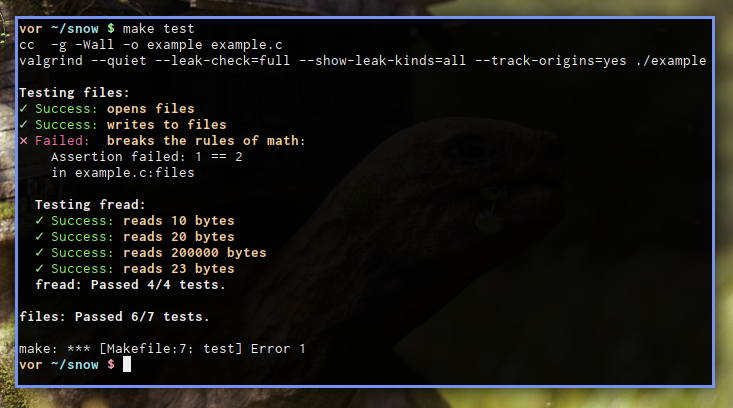
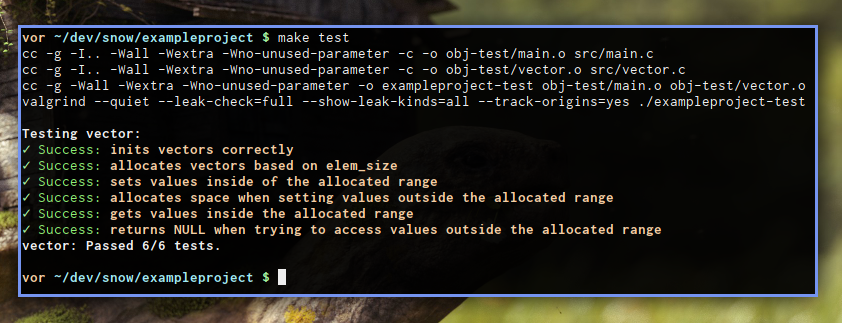
replaced example.c with an example project

diff --git a/exampleproject/src/vector.c b/exampleproject/src/vector.c
@@ -1,0 +1,110 @@
+#include "vector.h"
+#include <string.h>
+
+void vector_init(vector *vec, size_t elem_size)
+{
+	vec->size = 0;
+	vec->count = 0;
+	vec->elem_size = elem_size;
+	vec->elems = NULL;
+}
+
+void vector_free(vector *vec)
+{
+	free(vec->elems);
+}
+
+void vector_alloc(vector *vec, size_t count)
+{
+	if (vec->size >= count)
+		return;
+
+	if (vec->size == 0)
+		vec->size = 16;
+	while (vec->size < count)
+		vec->size *= 2;
+
+	vec->elems = realloc(vec->elems, vec->elem_size * vec->size);
+}
+
+void vector_set(vector *vec, size_t idx, void *elem)
+{
+	if (idx + 1 > vec->count)
+	{
+		vec->count = idx + 1;
+		vector_alloc(vec, vec->count);
+	}
+
+	memcpy(vec->elems + (vec->elem_size * idx), elem, vec->elem_size);
+}
+
+void *vector_get(vector *vec, size_t idx)
+{
+	if (vec->count <= idx)
+		return NULL;
+
+	return vec->elems + (vec->elem_size * idx);
+}
+
+#include <snow/snow.h>
+
+#define setup(name, size) \
+	vector name; \
+	vector_init(&name, size); \
+	defer(vector_free(&name))
+
+describe(vector, {
+	it("inits vectors correctly", {
+		setup(vec, 53);
+
+		asserteq(vec.size, 0);
+		asserteq(vec.count, 0);
+		asserteq(vec.elem_size, 53);
+		asserteq(vec.size, 0);
+	});
+
+	it("allocates vectors based on elem_size", {
+		setup(vec, sizeof(int));
+
+		vector_alloc(&vec, 10);
+		asserteq(vec.elem_size, sizeof(int));
+		asserteq(vec.count, 0);
+		assert(vec.size >= 10);
+		// Not an assert, but will cause valgrind to complain
+		// if not enough memory was allocated
+		memset(vec.elems, 0xff, 10 * vec.elem_size);
+	});
+
+	it("sets values inside of the allocated range", {
+		setup(vec, sizeof(int));
+
+		vector_alloc(&vec, 2);
+		int el = 10;
+		vector_set(&vec, 1, &el);
+		asserteq(*(int *)(vec.elems + sizeof(int)), 10);
+	});
+
+	it("allocates space when setting values outside the allocated range", {
+		setup(vec, sizeof(int));
+
+		int el = 10;
+		vector_set(&vec, 50, &el);
+		asserteq(*(int *)(vec.elems + (sizeof(int) * 50)), 10);
+	});
+
+	it("gets values inside the allocated range", {
+		setup(vec, sizeof(int));
+
+		int el = 500;
+		vector_set(&vec, 10, &el);
+		asserteq(*(int *)vector_get(&vec, 10), 500);
+	});
+
+	it("returns NULL when trying to access values outside the allocated range", {
+		setup(vec, sizeof(int));
+
+		int el = 10;
+		vector_set(&vec, 100, &el);
+		asserteq(vector_get(&vec, 101), NULL);
+	});
+});

diff --git a/exampleproject/src/main.c b/exampleproject/src/main.c
@@ -1,0 +1,29 @@
+#include "vector.h"
+#include <stdio.h>
+
+#ifdef SNOW_DISABLED
+
+// Example program which will just put all strings in argv into a vector,
+// then loop through and print the arguments
+int main(int argc, char **argv) {
+	vector vec;
+	vector_init(&vec, sizeof(char *));
+
+	for (int i = 0; i < argc; ++i)
+		vector_set(&vec, i, &argv[i]);
+
+	printf("Got %zi arguments:\n", vec.count);
+	for (size_t i = 0; i < vec.count; ++i)
+		printf("%s\n", *(char **)vector_get(&vec, i));
+
+	vector_free(&vec);
+
+	return 0;
+}
+
+#else
+
+#include <snow/snow.h>
+snow_main();
+
+#endif

diff --git a/exampleproject/src/vector.h b/exampleproject/src/vector.h
@@ -1,0 +1,19 @@
+#ifndef VECTOR_H
+#define VECTOR_H
+
+#include <stdlib.h>
+
+typedef struct vector {
+	size_t size;
+	size_t count;
+	size_t elem_size;
+	void *elems;
+} vector;
+
+void vector_init(vector *vec, size_t elem_size);
+void vector_free(vector *vec);
+void vector_alloc(vector *vec, size_t count);
+void vector_set(vector *vec, size_t idx, void *elem);
+void *vector_get(vector *vec, size_t idx);
+
+#endif

diff --git a/snow/snow.h b/snow/snow.h
@@ -4,7 +4,6 @@
 #ifdef SNOW_DISABLED
 
 #define describe(...)
-#define snow_main(...)
 
 #else
 

diff --git a/README.md b/README.md
@@ -4,8 +4,6 @@ Snow is a header-only unit testing library for C. The file
 [snow/snow.h](https://github.com/mortie/snow/blob/master/snow/snow.h) should
 be included from the main source file.
 
-Look at [example.c](https://github.com/mortie/snow/blob/master/example.c) for an example.
-
 ![Screenshot](https://raw.githubusercontent.com/mortie/snow/master/img/screenshot.png)
 
 ## About
@@ -35,8 +33,7 @@ Since you're not supposed to make your own main function, and instead use the
 ## Example
 
 Here's a simple example which tests a couple of filesystem functions, and has a
-subdescription for testing fread-related stuff. It's very similar to the
-example in [example.c](https://github.com/mortie/snow/blob/master/example.c).
+subdescription for testing fread-related stuff.
 
 	describe(files, {
 		it("opens files", {
@@ -151,3 +148,35 @@ Fail unless the first `n` bytes of `a` and `b` are the same.
 ### assertneq\_buf(a, b, n)
 
 Fail if the first `n` bytes of `a` and `b` are the same.
+
+## How to test
+
+Exactly how to test your code might not be as obvious with C as it is for other
+languages. I haven't yet used Snow for any big projects, but here's how I would
+do it
+
+### Testing a library's interface
+
+When testing a library's interface, you can just create a `test` folder which
+is completely decoupled from the library's source code, and just compile your
+test code with a flag to link against your library.
+
+### Testing a program or library internals
+
+Testing anything that's not exposed as a library's public API is is possible
+because of the `SNOW_DISABLED` macro; if `SNOW_DISABLED` is defined, most of
+Snow's macros won't be defined, and `describe` will just be an empty macro
+which will disappear after the preprocessor. Therfore, you can include tests
+directly in your C source files, and compile non-test builds with the
+`-DSNOW_DISABLED` compiler argument.
+
+Since all test macros are compiled down to nothing, this will have no runtime
+performance or binary size impact.
+
+Note that since `snow.h` defines macros with pretty general names (`it`,
+`describe`, `assert`), it's probably a good idea to put your tests at the
+bottom of the source and only include `snow.h` right above the test code, to
+avoid name conflicts.
+
+The [exampleproject](https://github.com/mortie/snow/blob/master/exampleproject)
+directory is an example of a program tested this way.
